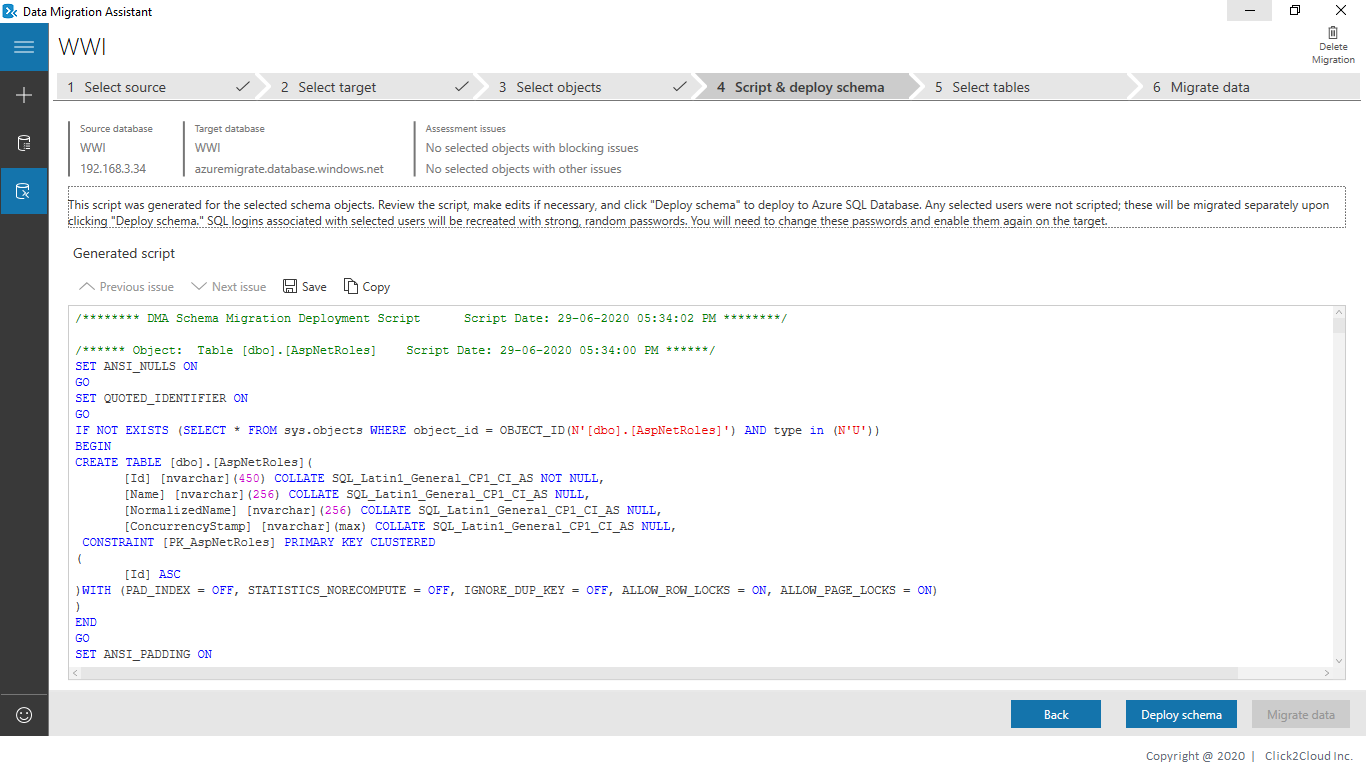
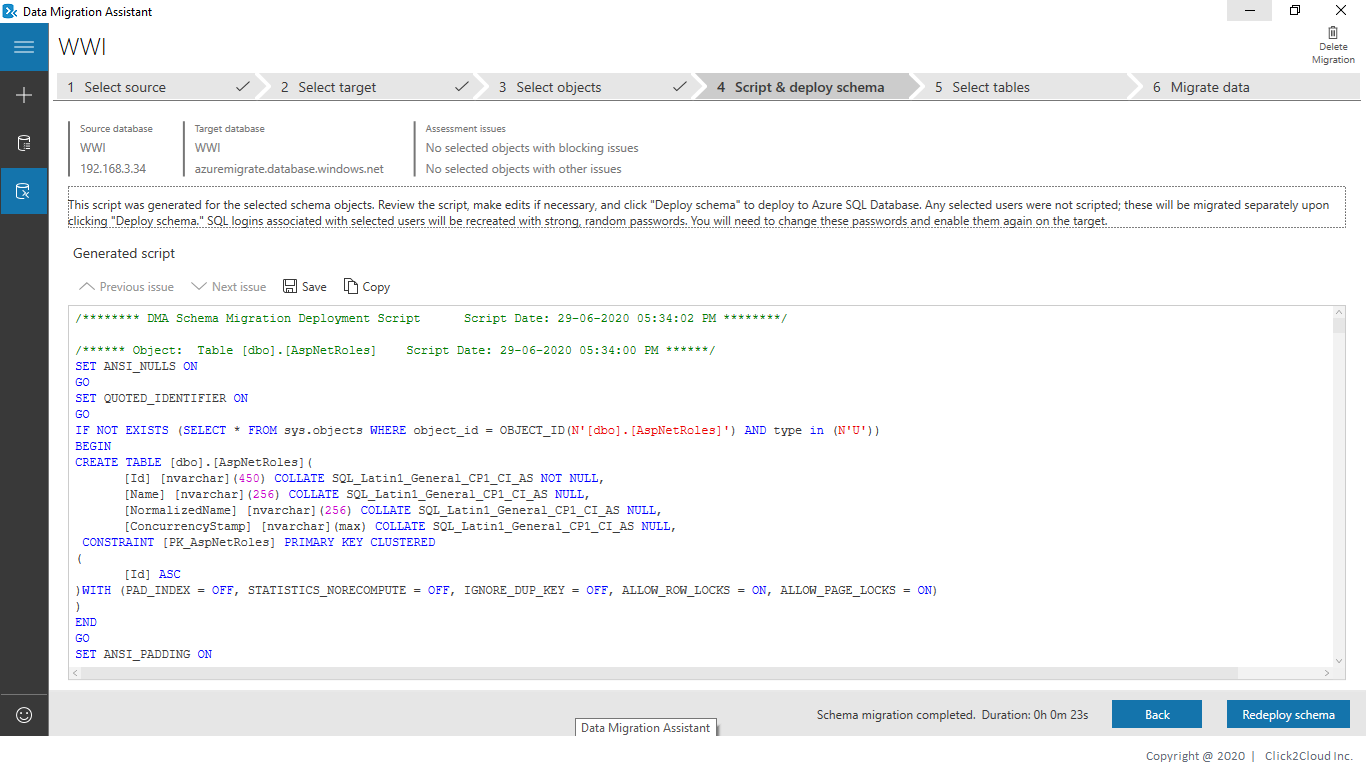
Shadab: removed Data migration using DMA

Changed region(s): [[0.5842, 0.89, 1.0, 0.9514], [0.3997, 0.9207, 0.5227, 0.9514]]

diff --git a/assess-and-migrate/wwi-ecomm-db.md b/assess-and-migrate/wwi-ecomm-db.md
@@ -192,7 +192,8 @@ It shows the estimated monthly compute and storage costs for running the VMs in 
 1. Create a migration project.
    1. On the left, select the + icon, and then select the migration **Project type**.
    2. Specify the project name, and then select the source server and target server types.
-   3. Click on **Create**.
+   3. Select Migration Scope as Schema only.
+   4. Click on **Create**.
 
 <p><kbd>
   <img src="../images/WWI-eCommerce/manu-db-1.png">
@@ -234,28 +235,6 @@ It shows the estimated monthly compute and storage costs for running the VMs in 
 
 7. After deploying schema, you can also redeploy it by clicking **Redeploy schema**.
 
-There are two ways to migrate your data to Azure cloud: 
-## Steps for data migration using **Data Migration Assistant tool.** 
-1. Click on **Migrate data** to start the Data migration.
-
-<p><kbd>
-   <img src="../images/WWI-eCommerce/manu-db-8.png">
-</kbd></p>
-
-2. Select the tables containing data you would like to migrate to Azure SQL Database and click on **Start data migration**
-
-<p><kbd>
-   <img src="../images/WWI-eCommerce/manu-db-9.png">
-</kbd></p>
-
-<p><kbd>
-   <img src="../images/WWI-eCommerce/manu-db-10.png">
-</kbd></p>
-
-<p><kbd>
-   <img src="../images/WWI-eCommerce/manu-db-11.png">
-</kbd></p>
-
 ## Steps for Data Migration using **Azure Data Migration Service.** 
 1. Log in to the azure console, Search for **Azure Data Migration Service** and click on **Azure Data Migration Service**,
 
@@ -263,7 +242,7 @@ There are two ways to migrate your data to Azure cloud:
    <img src="../images/WWI-eCommerce/manu-db-12.png">
 </kbd></p>
 
-2. On the Azure Database Migration Service screen, click on **Add** button to create the service if not exist already. .
+2. On the Azure Database Migration Service screen, click on **Add** button to create the service if not exist already.
 
 <p><kbd>
    <img src="../images/WWI-eCommerce/manu-db-13.png">
